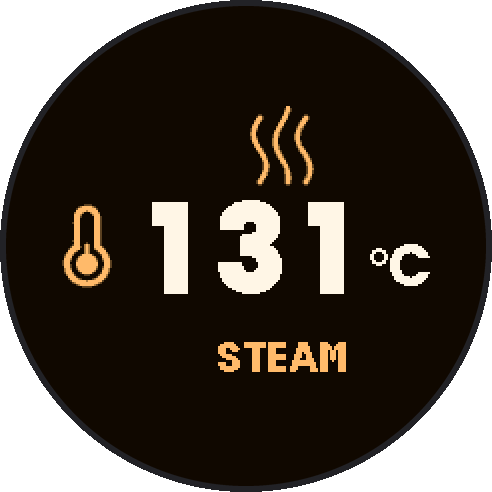
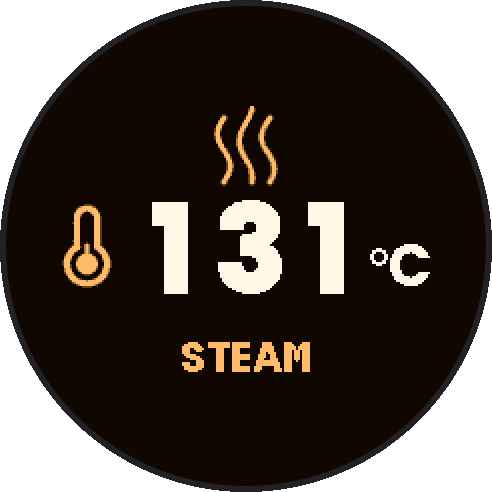
Steaming mode: the volutes and the text STEAM are centered on the screen

Changed region(s): [[0.4268, 0.2134, 0.6402, 0.3963], [0.3659, 0.6707, 0.7012, 0.7622], [0.4268, 0.3659, 0.4573, 0.3963]]

diff --git a/src/display/Layout.h b/src/display/Layout.h
@@ -63,9 +63,9 @@
 #define STEAM_ZONE_HEIGHT             52
 #define STEAM_ICON_X                  28    // the thermometer icon, left of the number, centered on the screen
 #define STEAM_ICON_Y                  99
-#define STEAM_WISPS_X                 120   // the steam icon (volutes), centered above the number (center x 138)
+#define STEAM_WISPS_X                 102   // the steam icon (volutes, 36 px wide), centered on the screen
 #define STEAM_WISPS_Y                 50
-#define STEAM_TAG_X                   105   // the text "STEAM" (66 px wide, centered under the number)
+#define STEAM_TAG_X                   87    // the text "STEAM" (66 px wide), centered on the screen
 #define STEAM_TAG_BASELINE            183
 #define STEAM_ERROR_X                 63    // "ERR" (sensor fault), 3 times the size of the tag letters: 117 x 45 px, centered
 #define STEAM_ERROR_BASELINE          142

diff --git a/README.md b/README.md
@@ -171,7 +171,7 @@ other modes, and both are kept in the EEPROM.
 
 - **No extraction**: the extraction is not updated (no volume is read), the pump and the valve stay off, the start / stop button does
   nothing, and the short and double pushes neither.
-- **The screen** shows the temperature alone, in large digits in the middle, with the thermometer icon on its left as in the other modes, three volutes of steam above it and the text `STEAM` under it (no other icon, no volume, no duration, no heater dot); `ERR` if
+- **The screen** shows the temperature alone, in large digits in the middle, with the thermometer icon on its left as in the other modes, three volutes of steam above and the text `STEAM` under, both centered on the screen (no other icon, no volume, no duration, no heater dot); `ERR` if
   the probe fails.
 - **The encoder** sets SteamingTemp: the setpoint is shown for 2 s after each turn (`STEAM_SETPOINT_SHOW_MS`), then the measured
   temperature comes back. It is saved at each change and applied to the heater at once.
